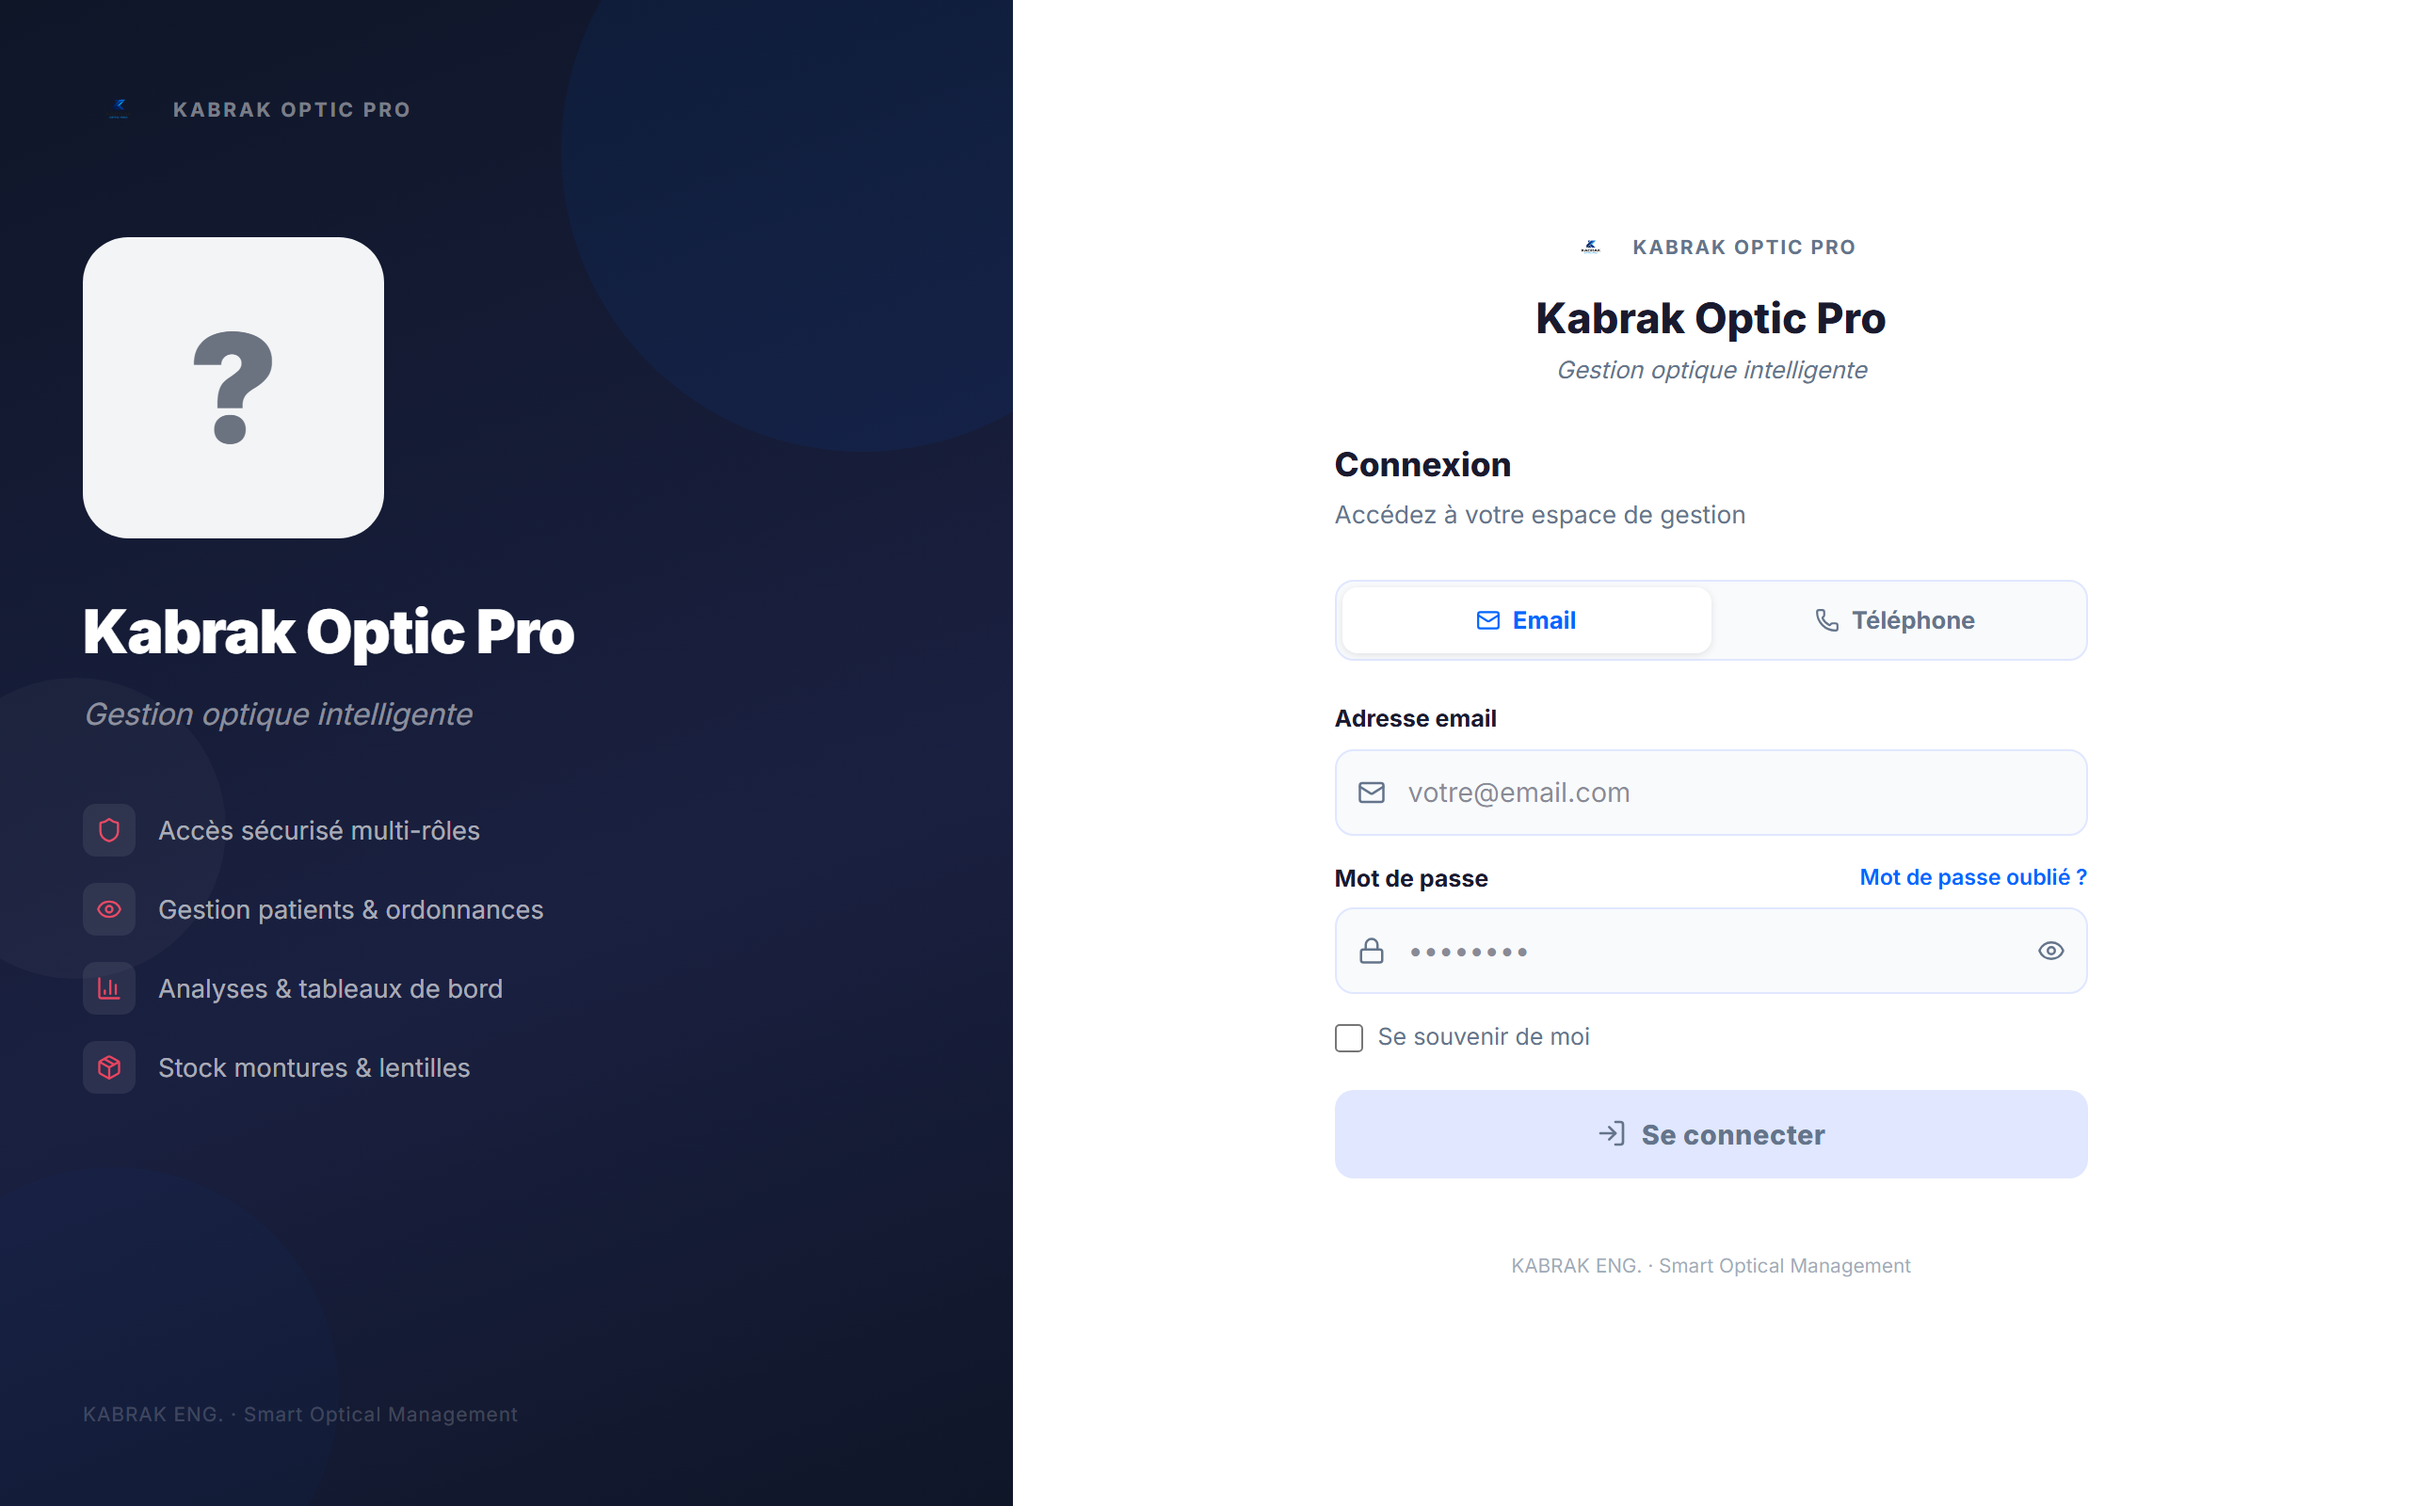
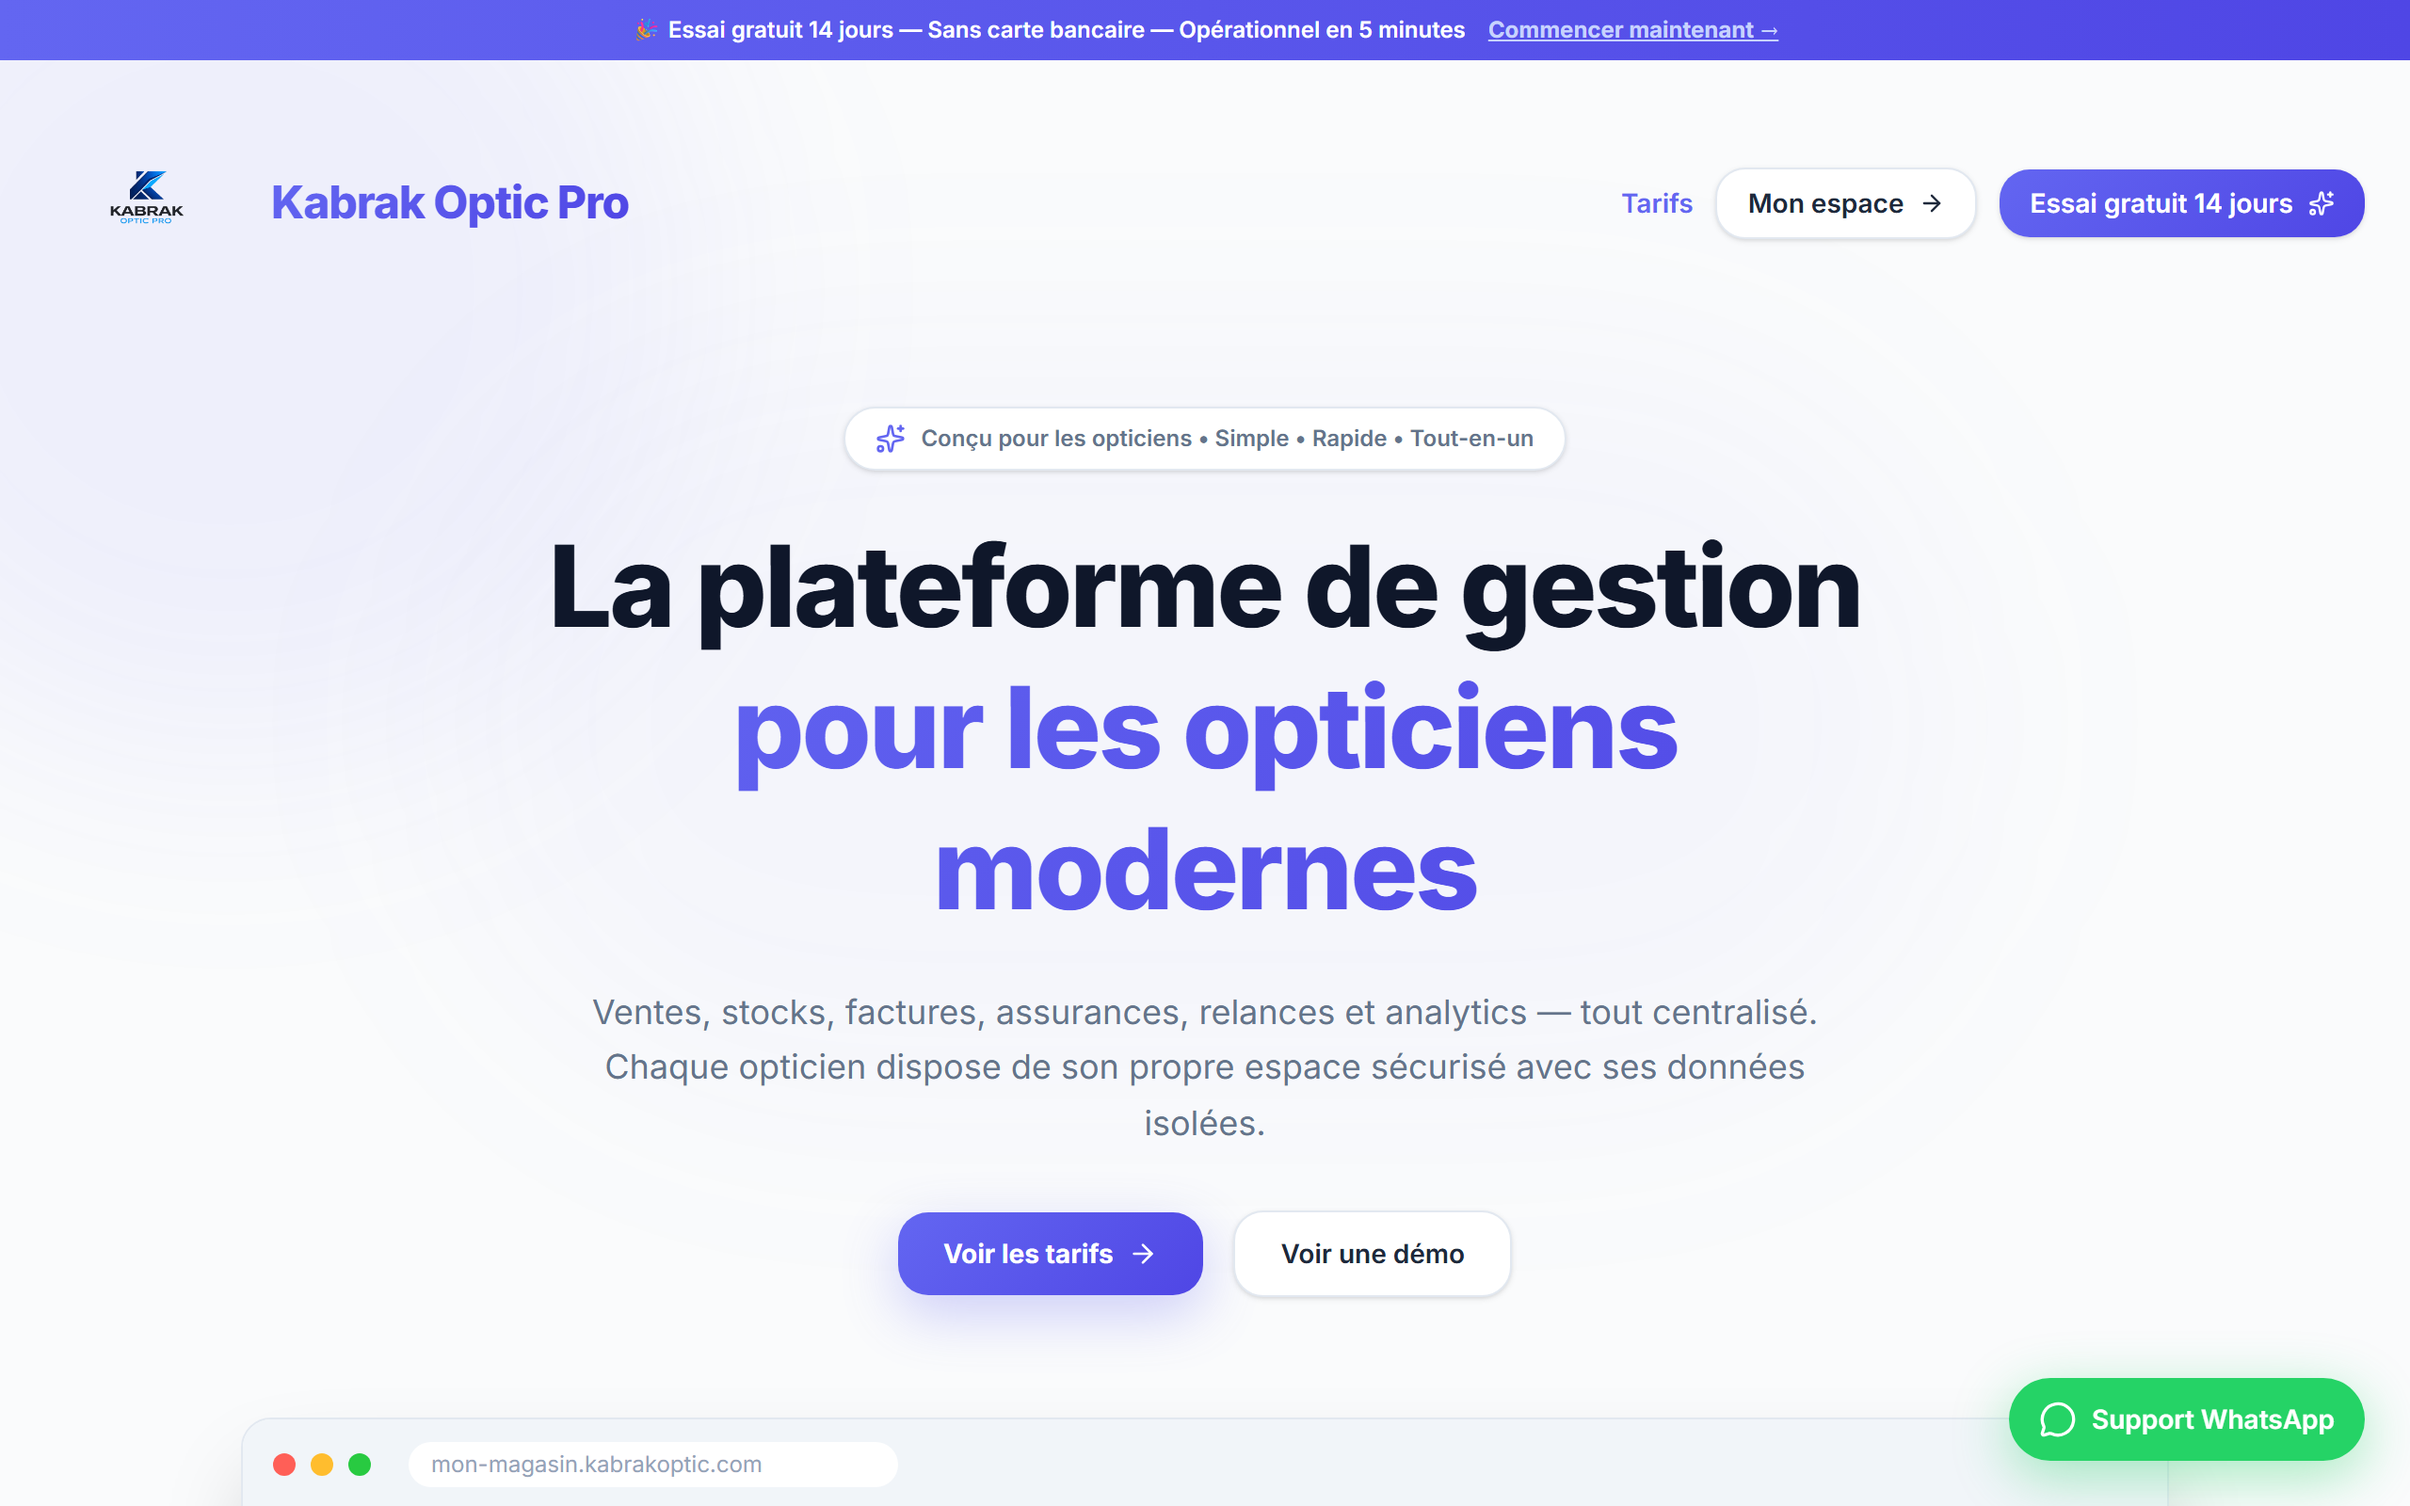
fix: remove emojis, generic footer, fix Retail ERP URL, new screenshots

diff --git a/src/pages/Home.jsx b/src/pages/Home.jsx
@@ -302,7 +302,7 @@ export default function Home() {
             <div className="p-5 sm:p-10 flex flex-col justify-center">
               <div className="inline-flex items-center gap-2 px-2.5 sm:px-3 py-1 sm:py-1.5 rounded-full bg-amber-500/15 border border-amber-500/30 text-amber-400 text-[10px] sm:text-xs font-medium mb-4 sm:mb-6 w-fit">
                 <span className="w-1.5 h-1.5 rounded-full bg-amber-400 pulse-dot" />
-                🏆 Produit Phare
+                Produit Phare
               </div>
               <h3 className="font-display font-black text-2xl sm:text-3xl text-white mb-2 sm:mb-3">KABRAK Store</h3>
               <p className="text-slate-400 text-xs sm:text-sm leading-relaxed mb-4 sm:mb-6">
@@ -338,9 +338,9 @@ export default function Home() {
                 <div className="text-white font-bold text-lg sm:text-xl font-display">KABRAK Store</div>
                 <div className="text-slate-400 text-xs sm:text-sm mt-1">SaaS POS · Gestion Commerciale</div>
                 <div className="mt-3 sm:mt-4 flex justify-center gap-2 sm:gap-3 text-[10px] sm:text-xs text-slate-500">
-                  <span>🌍 Cameroun</span>
+                  <span>Cameroun</span>
                   <span>·</span>
-                  <span>📦 Production</span>
+                  <span>Production</span>
                 </div>
               </div>
             </div>

diff --git a/src/components/Footer.jsx b/src/components/Footer.jsx
@@ -98,8 +98,12 @@ export default function Footer() {
         {/* Bottom bar */}
         <div className="border-t border-slate-800 pt-6 flex flex-col sm:flex-row items-center justify-between gap-3 text-xs text-slate-500">
           <span>© {year} KABRAK ENG. {t.footer.rights}</span>
-          <span className="flex items-center gap-1">
-            {t.footer.builtIn} <span className="text-[#c9a227] font-medium">Cameroun</span> 🇨�
+          <span className="flex items-center gap-3">
+            <a href="https://wa.me/237653561862" target="_blank" rel="noopener noreferrer" className="hover:text-green-400 transition-colors">WhatsApp</a>
+            <span>·</span>
+            <a href="https://www.facebook.com/KabrakEng" target="_blank" rel="noopener noreferrer" className="hover:text-[#c9a227] transition-colors">Facebook</a>
+            <span>·</span>
+            <a href="https://www.kabrakeng.com" className="hover:text-[#c9a227] transition-colors">kabrakeng.com</a>
           </span>
         </div>
       </div>

diff --git a/src/context/LangContext.jsx b/src/context/LangContext.jsx
@@ -9,7 +9,7 @@ export const translations = {
       projects: 'Projets', contact: 'Contact', cta: 'Nous contacter',
     },
     footer: {
-      tagline: 'Des solutions digitales qui fonctionnent pour l\'Afrique. Conçu et développé au Cameroun.',
+      tagline: 'Des solutions digitales qui fonctionnent pour l\'Afrique. POS, ERP, SaaS — déployés en production.',
       nav: 'Navigation', contact: 'Contact', startProject: 'Démarrer un projet',
       builtIn: 'Conçu au', rights: 'Tous droits réservés.',
     },
@@ -211,7 +211,7 @@ export const translations = {
       projects: 'Projects', contact: 'Contact', cta: 'Contact us',
     },
     footer: {
-      tagline: 'Digital solutions that work for Africa. Designed and built in Cameroon.',
+      tagline: 'Digital solutions that work for Africa. POS, ERP, SaaS — deployed in production.',
       nav: 'Navigation', contact: 'Contact', startProject: 'Start a project',
       builtIn: 'Built in', rights: 'All rights reserved.',
     },

diff --git a/src/pages/Projects.jsx b/src/pages/Projects.jsx
@@ -255,7 +255,7 @@ export default function Projects() {
         subtitle={p.retailSubtitle}
         desc={p.retailDesc}
         features={p.retailFeatures}
-        visitUrl="https://kabrak-supermarket-erp-frontend.vercel.app/proposition"
+        visitUrl="https://kabrak-supermarket-erp-frontend.vercel.app"
         visitBtn={p.retailVisitBtn}
         similarBtn={p.retailSimilarBtn}
         stats={p.retailStats}
